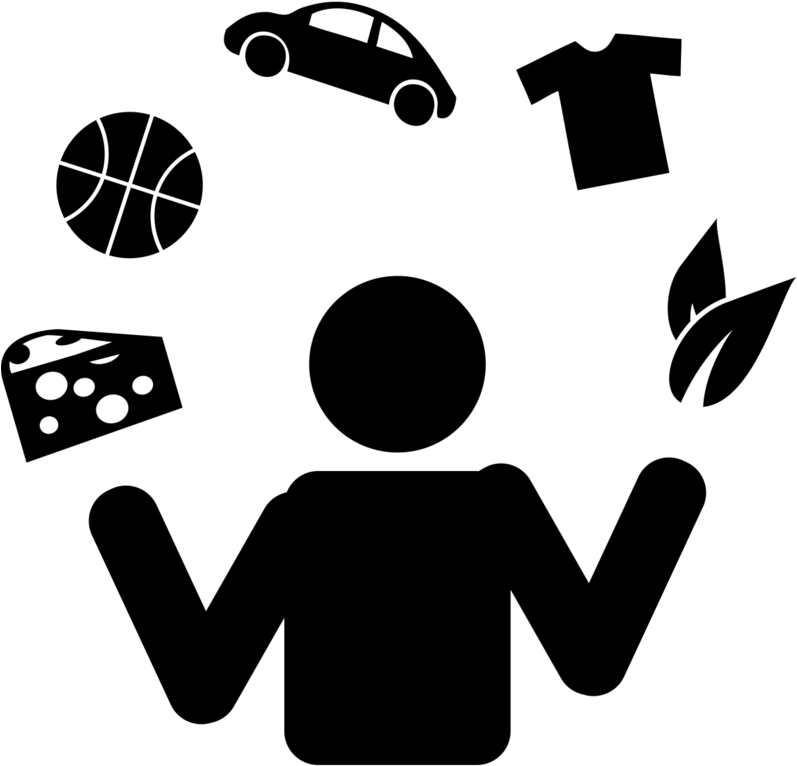
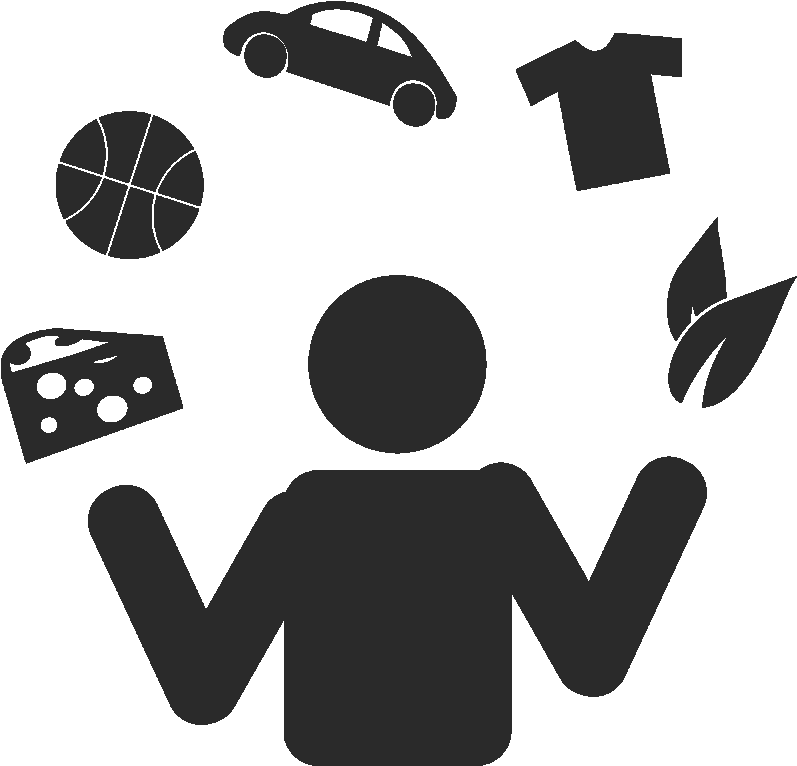
Adiciona icone e muda cor do hobbies.png.

diff --git a/index.html b/index.html
@@ -28,12 +28,14 @@
   <aside class="aside-card about-me">
     <img class="aside-img" id="work-photo" src="work_photo.jpg" alt="Minha foto">
     <article class="card">
+      <i class="fas fa-female fa-2x"></i>
       <h1>Sobre Mim</h1>
       <p>Organizada, diligente e flexível. Sou uma pessoa bem focada: tenho facilidade de aprender e quando algo me dá dificuldade coloco bastante esforço para passar por essa parede. Pratico escuta ativa e tenho facílidade em empatizar com as pessoas.</p>
     </article>
   </aside>
   <aside class="aside-card hobbies">
     <article class="card">
+      <i class="fas fa-pencil-ruler fa-2x"></i>
       <h1>Meus Hobbies</h1>
       <p>Me considero uma pessoa bem criativa, então desde criança meus hobbies foram coisas como <span class="underline">desenhar, compôr músicas e escrever histórias.</span> Eu gostava de combinar essas habilidades em jogos criados utilizando as ferramentas RPG Maker e Game Maker, o que me deu um background de programação e me levou à essa paixão!</p>
     </article>

diff --git a/style.css b/style.css
@@ -67,11 +67,14 @@ h1 {
   flex-wrap: wrap;
   justify-content: center;
   align-content: center;
-  color: rgb(249, 249, 249);
-  width: 500px;
-  height: 500px;
+  justify-items: center;
+  align-items: center;
+  width: 400px;
+  height: 400px;
+  padding: 50px;
   border-radius: 15%;
   margin: 50px 50px;
+  color: rgb(249, 249, 249);
 }
 
 .aside-card {
@@ -127,7 +130,6 @@ h1 {
 
 .banner p {
   align-self: center;
-  width: 60%;
   font-weight: 500;
   font-size: 18px;
   text-align: center;
@@ -162,8 +164,11 @@ h1 {
 }
 
 .aside-card h1 {
+  flex-basis: 100%;
+  text-align: center;
   color: rgb(249, 249, 249);
   font-weight: 700;
+  font-size: 42px;
 }
 
 .aside-card p {
